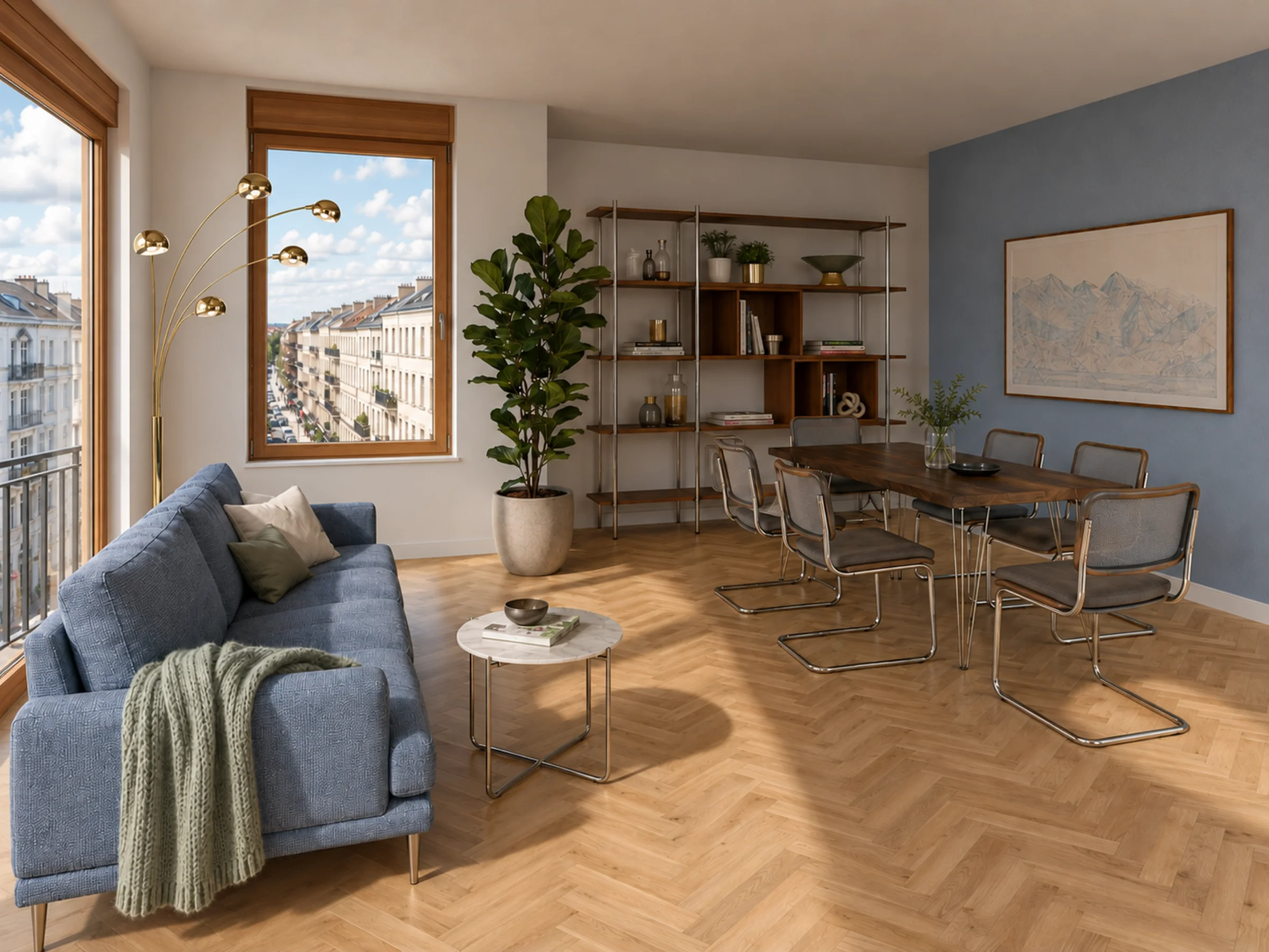
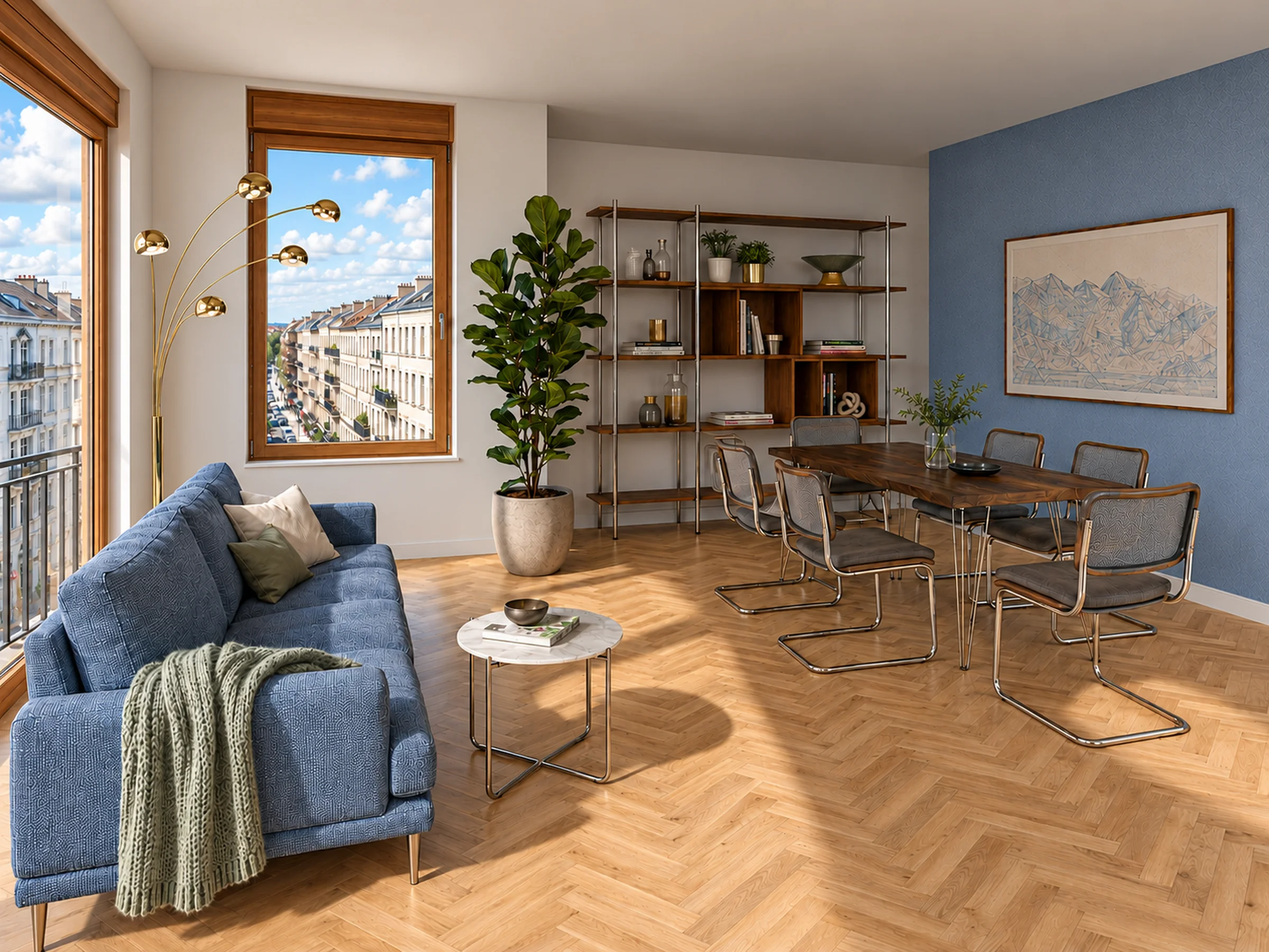
feat: add FAQ and SEO sections

diff --git a/src/components/FaqSection.vue b/src/components/FaqSection.vue
@@ -1,0 +1,63 @@
+<script setup lang="ts">
+import { computed } from 'vue';
+import { useHead } from '@unhead/vue';
+import { useI18n } from 'vue-i18n';
+import { useRoute } from 'vue-router';
+
+const { tm, rt } = useI18n();
+
+const items = computed(() =>
+  (tm('faq.items') as unknown as { q: string; a: string }[]).map((item) => ({
+    q: rt(item.q),
+    a: rt(item.a),
+  })),
+);
+
+const route = useRoute();
+useHead({
+  script: computed(() =>
+    route.path === '/'
+      ? [
+          {
+            type: 'application/ld+json',
+            innerHTML: JSON.stringify({
+              '@context': 'https://schema.org',
+              '@type': 'FAQPage',
+              mainEntity: items.value.map((item) => ({
+                '@type': 'Question',
+                name: item.q,
+                acceptedAnswer: { '@type': 'Answer', text: item.a },
+              })),
+            }),
+          },
+        ]
+      : [],
+  ),
+});
+</script>
+
+<template>
+  <section id="fragen" class="mx-auto max-w-3xl px-6 pb-24 md:px-10 md:pb-32">
+    <div class="mb-12 text-center">
+      <p class="kicker mb-4">{{ $t('faq.kicker') }}</p>
+      <h2 class="font-display text-[clamp(2rem,4.5vw,3.25rem)] leading-[1.05]">
+        {{ $t('faq.title') }}
+      </h2>
+    </div>
+
+
+    <details v-for="(item, i) in items" :key="i" class="group border-t border-kalk-line last:border-b">
+      <summary
+        class="flex cursor-pointer list-none items-baseline justify-between gap-6 py-6 [&::-webkit-details-marker]:hidden"
+      >
+        <h3 class="font-display text-[clamp(1.35rem,2.5vw,1.75rem)] leading-[1.15]">{{ item.q }}</h3>
+        <span
+          aria-hidden="true"
+          class="text-2xl leading-none text-messing transition-transform duration-300 group-open:rotate-45"
+          >+</span
+        >
+      </summary>
+      <p class="max-w-prose pb-8 leading-relaxed text-espresso-soft">{{ item.a }}</p>
+    </details>
+  </section>
+</template>

diff --git a/scripts/indexnow.js b/scripts/indexnow.js
@@ -1,0 +1,49 @@
+import fs from 'node:fs'
+import path from 'node:path'
+import { fileURLToPath } from 'node:url'
+
+const SITE = 'https://studiovonboros.com'
+
+// Der Schlüssel ist der Dateiname der Key-Datei in public/ (32 Hex-Zeichen + .txt).
+const publicDir = path.resolve(
+    path.dirname(fileURLToPath(import.meta.url)),
+    '..',
+    'public'
+)
+const keyFile = fs
+    .readdirSync(publicDir)
+    .find((file) => /^[0-9a-f]{32}\.txt$/.test(file))
+if (!keyFile) throw new Error('Keine IndexNow-Key-Datei in public/ gefunden.')
+const key = keyFile.replace('.txt', '')
+const keyLocation = `${SITE}/${keyFile}`
+
+const liveKey = await fetch(keyLocation).then((res) =>
+    res.ok ? res.text() : ''
+)
+if (liveKey.trim() !== key) {
+    console.error(
+        `Key-Datei ist noch nicht live (${keyLocation}). Erst deployen, dann erneut ausführen.`
+    )
+    process.exit(1)
+}
+
+const sitemap = await fetch(`${SITE}/sitemap.xml`).then((res) => res.text())
+const urlList = [...sitemap.matchAll(/<loc>([^<]+)<\/loc>/g)].map(
+    (match) => match[1]
+)
+
+const res = await fetch('https://api.indexnow.org/indexnow', {
+    method: 'POST',
+    headers: { 'Content-Type': 'application/json; charset=utf-8' },
+    body: JSON.stringify({
+        host: new URL(SITE).host,
+        key,
+        keyLocation,
+        urlList,
+    }),
+})
+
+console.log(
+    `IndexNow: ${res.status} ${res.statusText} — ${urlList.length} URLs gemeldet`
+)
+if (!res.ok) process.exit(1)

diff --git a/src/style.css b/src/style.css
@@ -75,18 +75,6 @@
   .link-underline:hover::after {
     transform: scaleX(0.35);
   }
-
-  /* Weisse Kontur fuer Schrift auf unruhigem Bildgrund (Header ueber dem Hero) */
-  .text-outline-white {
-    text-shadow:
-      -1px -1px 0 #fff, 0 -1px 0 #fff, 1px -1px 0 #fff,
-      -1px 0 0 #fff, 1px 0 0 #fff,
-      -1px 1px 0 #fff, 0 1px 0 #fff, 1px 1px 0 #fff;
-  }
-  /* Browser setzen bei Buttons text-shadow: none (Menü, Sprachumschalter) */
-  .text-outline-white button {
-    text-shadow: inherit;
-  }
 }
 
 /* Grundzustand fuer die Scroll-Reveal-Animation (siehe useScrollReveal) */

diff --git a/src/views/HomeView.vue b/src/views/HomeView.vue
@@ -2,6 +2,7 @@
 import HeroSection from '@/components/HeroSection.vue';
 import FeatureBlock from '@/components/FeatureBlock.vue';
 import PricingSection from '@/components/PricingSection.vue';
+import FaqSection from '@/components/FaqSection.vue';
 import { projects } from '@/data/projects';
 import { useScrollReveal } from '@/composables/useScrollReveal';
 import { useSeo } from '@/composables/useSeo';
@@ -35,6 +36,8 @@ useSeo();
   </section>
 
       <PricingSection />
+
+      <FaqSection />
 
       <router-view />
 </template>

diff --git a/src/router/index.ts b/src/router/index.ts
@@ -10,7 +10,7 @@ export function createAppRouter(history: RouterHistory) {
       {
         path: '/',
         component: HomeView,
-        // Seite beginnt mit dem Hero-Bild — der Header startet dort mit weißer Outline (SiteHeader).
+        // Seite beginnt mit dem Hero-Bild — der Header startet dort mit heller Schrift (SiteHeader).
         meta: { hero: true },
         children: [
           { path: 'projekte/:id', name: 'project', component: ProjectModal, props: true },

diff --git a/README.md b/README.md
@@ -42,6 +42,18 @@ Im Browser übernimmt Vue dieses HTML (Hydration) und läuft danach wie gewohnt.
 - Code, der `window`, `document` oder `localStorage` braucht, gehört in
   `onMounted()` — beim Prerendering gibt es keinen Browser.
 
+## IndexNow (Bing & Co. sofort informieren)
+
+Nach einem Deploy mit neuen oder geänderten Seiten:
+
+```bash
+npm run indexnow
+```
+
+Das meldet alle URLs aus der Live-Sitemap an IndexNow. Bing speist u. a. die
+ChatGPT-Suche. Der Schlüssel ist die Datei `public/<32 Hex-Zeichen>.txt` — nicht
+löschen oder umbenennen.
+
 ## Farben
 
 Alle Markenfarben stehen in `src/style.css` im `@theme`-Block.
